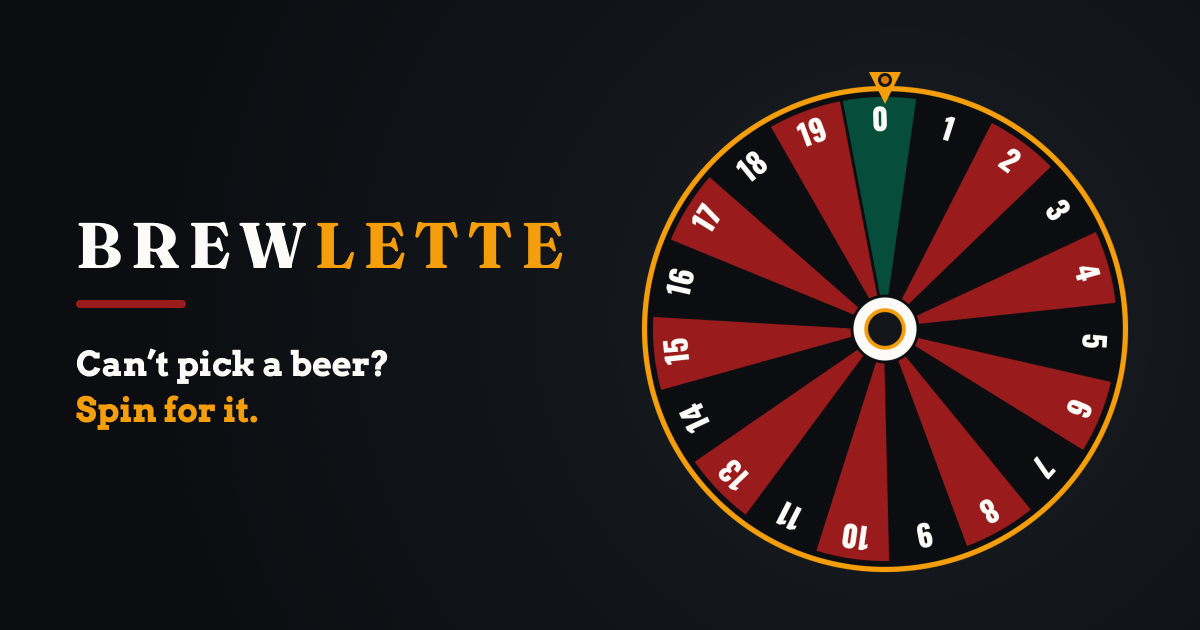
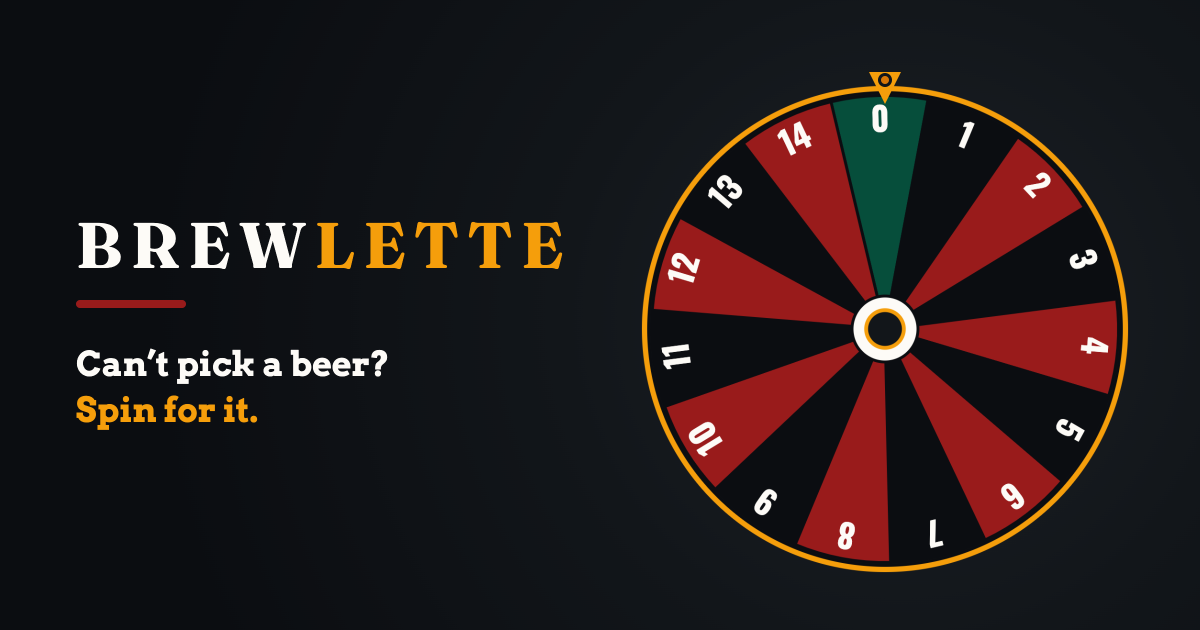
fix(meta): update preview image for 14-tap demo
- Regenerate the social preview with the 14-beer demo wheel
- Update the image alt text to match the new wheel numbering

Changed region(s): [[0.5242, 0.1508, 0.9558, 0.8746]]

diff --git a/index.html b/index.html
@@ -33,7 +33,7 @@
     <meta property="og:image" content="https://brewlette.reallyslowwebsites.com/og-image.png" />
     <meta property="og:image:width" content="1200" />
     <meta property="og:image:height" content="630" />
-    <meta property="og:image:alt" content="The Brewlette wordmark next to a red, black, and green roulette wheel numbered 0 to 19." />
+    <meta property="og:image:alt" content="The Brewlette wordmark next to a red, black, and green roulette wheel numbered 0 to 14." />
 
     <meta name="twitter:card" content="summary_large_image" />
     <meta name="twitter:title" content="Brewlette — Taproom Roulette" />
